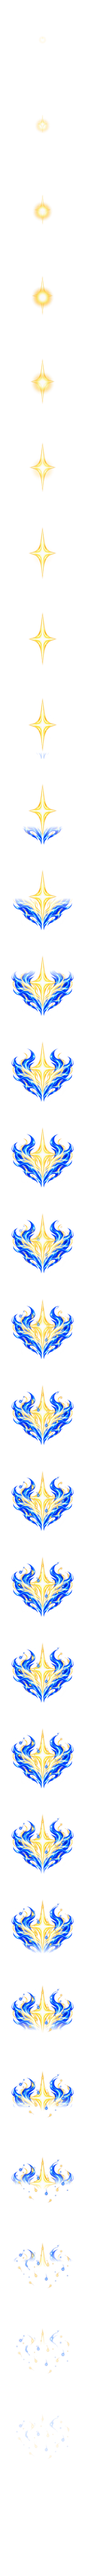
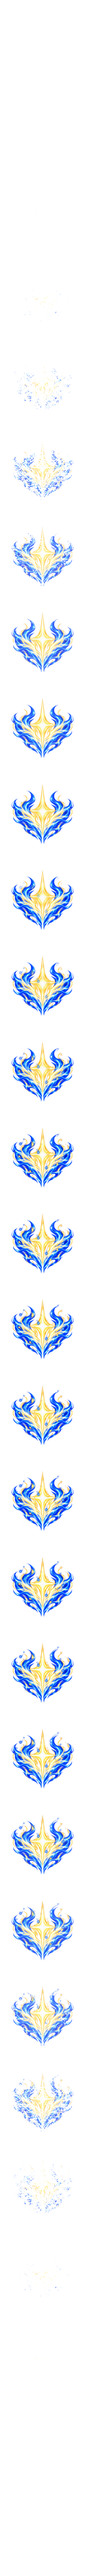
Chakra Overflow animation v3: dissolve in and out, fixed size and position
Claude-Session: https://claude.ai/code/session_01BK7FehqLqgE1qdDYPV9z98

Changed region(s): [[0.1562, 0.0312, 0.8438, 0.4375], [0.1562, 0.6562, 0.8438, 0.9062], [0.5312, 0.5, 0.5625, 0.5312]]

diff --git a/art/jutsu_icons/chakra_overflow/animation/build_strip.py b/art/jutsu_icons/chakra_overflow/animation/build_strip.py
@@ -1,5 +1,5 @@
 #!/usr/bin/env python3
-"""Assemble the Chakra Overflow cast animation from the art director's layers (route A), v2.
+"""Assemble the Chakra Overflow cast animation from the art director's layers (route A), v3 (dissolve in and out).
 
     python3 art/jutsu_icons/chakra_overflow/animation/build_strip.py [--frames N] [--size PX] [--preview DIR]
 
@@ -60,39 +60,58 @@ def place(canvas, layer, sx, sy, alpha=1.0, dy=0.0, keep_from=None, keep_to=None
     canvas.alpha_composite(im, (x, yy))
 
 
+def dissolve_field(seed=11):
+    """A smooth noise field in 0..1: pixels with a low value appear first and vanish last."""
+    rng = np.random.default_rng(seed)
+    fine = Image.fromarray((rng.random((W // 4, W // 4)) * 255).astype(np.uint8)).resize((W, W), Image.BICUBIC)
+    coarse = Image.fromarray((rng.random((W // 16, W // 16)) * 255).astype(np.uint8)).resize((W, W), Image.BICUBIC)
+    f = 0.6 * np.asarray(fine, np.float32) + 0.4 * np.asarray(coarse, np.float32)
+    f = (f - f.min()) / (f.max() - f.min())
+    # bias so the center (the star's heart) resolves first and dissolves last
+    yy, xx = np.mgrid[0:W, 0:W]
+    r = np.sqrt((xx - W / 2) ** 2 + (yy - W / 2 + STAR_DY * U * 0.6) ** 2) / (W * 0.5)
+    f = 0.7 * f + 0.3 * np.clip(r, 0, 1)
+    return (f - f.min()) / (f.max() - f.min())
+
+
+def apply_dissolve(img, field, p, soft=0.14):
+    """Keep pixels whose field value is below the progress p (0 = nothing, 1 = everything), with a soft band, and fade
+    the whole layer with p so the particles arrive and leave softly (a fade plus a dissolve)."""
+    a = np.asarray(img).astype(np.float32)
+    m = np.clip((p * (1 + soft) - field) / soft, 0, 1) * (0.35 + 0.65 * p)
+    a[..., 3] *= m
+    return Image.fromarray(a.clip(0, 255).astype(np.uint8), 'RGBA')
+
+
 def build(n_frames):
+    """v3 (director: "faded in and out, like a dissolve effect"): the finished emblem materializes through a particle
+    dissolve, holds while sparks stream upward, then dissolves away. Nothing changes size or position."""
     star, wings, flash, sparks = (load(f) for f in ('anim_co_L1_star.png', 'anim_co_L2_wings.png',
                                                      'anim_co_L3_flash.png', 'anim_co_L4_sparks.png'))
+    emblem = Image.new('RGBA', (W, W), (0, 0, 0, 0))
+    place(emblem, wings, WING_S, WING_S, dy=WING_DY)
+    place(emblem, star, STAR_SX, STAR_SY, dy=STAR_DY)
+    spark_layer = Image.new('RGBA', (W, W), (0, 0, 0, 0))
+    field = dissolve_field()
     frames = []
     for i in range(n_frames):
         t = i / (n_frames - 1)
         c = Image.new('RGBA', (W, W), (0, 0, 0, 0))
-        # release (0.66-1.0): the emblem rises steadily and dissolves from the bottom up
-        rel = seg(t, 0.66, 1.0)
-        rise = -34 * rel
-        gone = rel                                    # 0 -> 1: dissolve line climbs steadily from the bottom to the top
-        fade = 1 - ease_in_out(seg(t, 0.84, 1.0))
-
-        # wings (0.20-0.50): uncovered from the bottom up while settling 40 px into place; never rescaled
-        wr = ease_in_out(seg(t, 0.20, 0.50))
-        if wr > 0:
-            place(c, wings, WING_S, WING_S, alpha=seg(t, 0.20, 0.30) * fade,
-                  dy=WING_DY + 40 * (1 - ease_out(seg(t, 0.20, 0.50))) + rise,
-                  keep_from=1.08 - wr * 1.2, keep_to=1.1 - gone * 1.25)
-
-        # star (0.00-0.30): one continuous grow from a point to the final size, fixed center
-        g = 0.06 + 0.94 * ease_out(seg(t, 0.0, 0.30))
-        place(c, star, STAR_SX * g, STAR_SY * g, alpha=min(1, 0.4 + 2.4 * t) * fade,
-              dy=STAR_DY + rise, keep_to=1.1 - max(0, gone - 0.15) * 1.3)
-
-        # flash: ignition burst, then a soft swell when the wings complete
-        fl = np.exp(-((t - 0.10) / 0.07) ** 2) + 0.30 * np.exp(-((t - 0.50) / 0.07) ** 2)
-        fs = 0.18 + 0.30 * ease_out(seg(t, 0.0, 0.18))
-        place(c, flash, fs, fs, alpha=min(1.0, fl), dy=STAR_DY * 0.6)
-
-        # sparks (0.44-1.0): stream upward at a constant speed, fade in and out
-        sp = seg(t, 0.44, 1.0)
-        place(c, sparks, 0.95, 0.95, alpha=seg(t, 0.44, 0.54) * (1 - seg(t, 0.86, 1.0)), dy=60 - 150 * sp)
+        p_in = ease_in_out(seg(t, 0.0, 0.38))          # dissolve in
+        p_out = 1 - ease_in_out(seg(t, 0.64, 1.0))     # dissolve out
+        p = min(p_in, p_out)
+        if p > 0:
+            c.alpha_composite(apply_dissolve(emblem, field, p))
+        # a soft swell of light at the heart as the emblem completes
+        fl = 0.55 * np.exp(-((t - 0.36) / 0.10) ** 2)
+        place(c, flash, 0.42, 0.42, alpha=fl, dy=STAR_DY * 0.6)
+        # sparks stream upward during the hold and dissolve with the emblem
+        sp = seg(t, 0.30, 1.0)
+        s = Image.new('RGBA', (W, W), (0, 0, 0, 0))
+        place(s, sparks, 0.95, 0.95, alpha=seg(t, 0.30, 0.44), dy=60 - 140 * sp)
+        if p_out < 1:
+            s = apply_dissolve(s, 1 - field, p_out)
+        c.alpha_composite(s)
         frames.append(c)
     return frames
 

diff --git a/docs/handoffs/CHAKRA_OVERFLOW_ANIMATION_ART_REQUEST.md b/docs/handoffs/CHAKRA_OVERFLOW_ANIMATION_ART_REQUEST.md
@@ -116,3 +116,11 @@ at a fixed center; the wings are uncovered bottom-up while settling 40 px, never
 while rising). The star layer is narrowed to K4's proportions (x 0.672, y 0.84, raised 90 px), measured against K4.
 Result: 30 frames of 128 px, 197,002 bytes, intended speed 43 ms (1.3 s). Frame-by-frame check: horizontal center within
 0.5 px throughout, star size rises monotonically over frames 1-8, frames 12-20 hold exactly still.
+
+## 8. Revision 3: dissolve in and out (director, 2026-10-23)
+
+Director: "Its really good, but I think it might look better if it faded in and out, like a dissolve effect." `build_strip.py`
+v3 composes the finished emblem once (wings plus the narrowed star, the v2 final pose) and reveals it through a particle
+dissolve (a smooth noise field biased so the star's heart resolves first and vanishes last) combined with a fade, holds
+while sparks stream upward, then dissolves away the same way. Nothing changes size or position. 30 frames of 128 px,
+275,394 bytes (ceiling 460,800), intended speed 43 ms (1.3 s).
